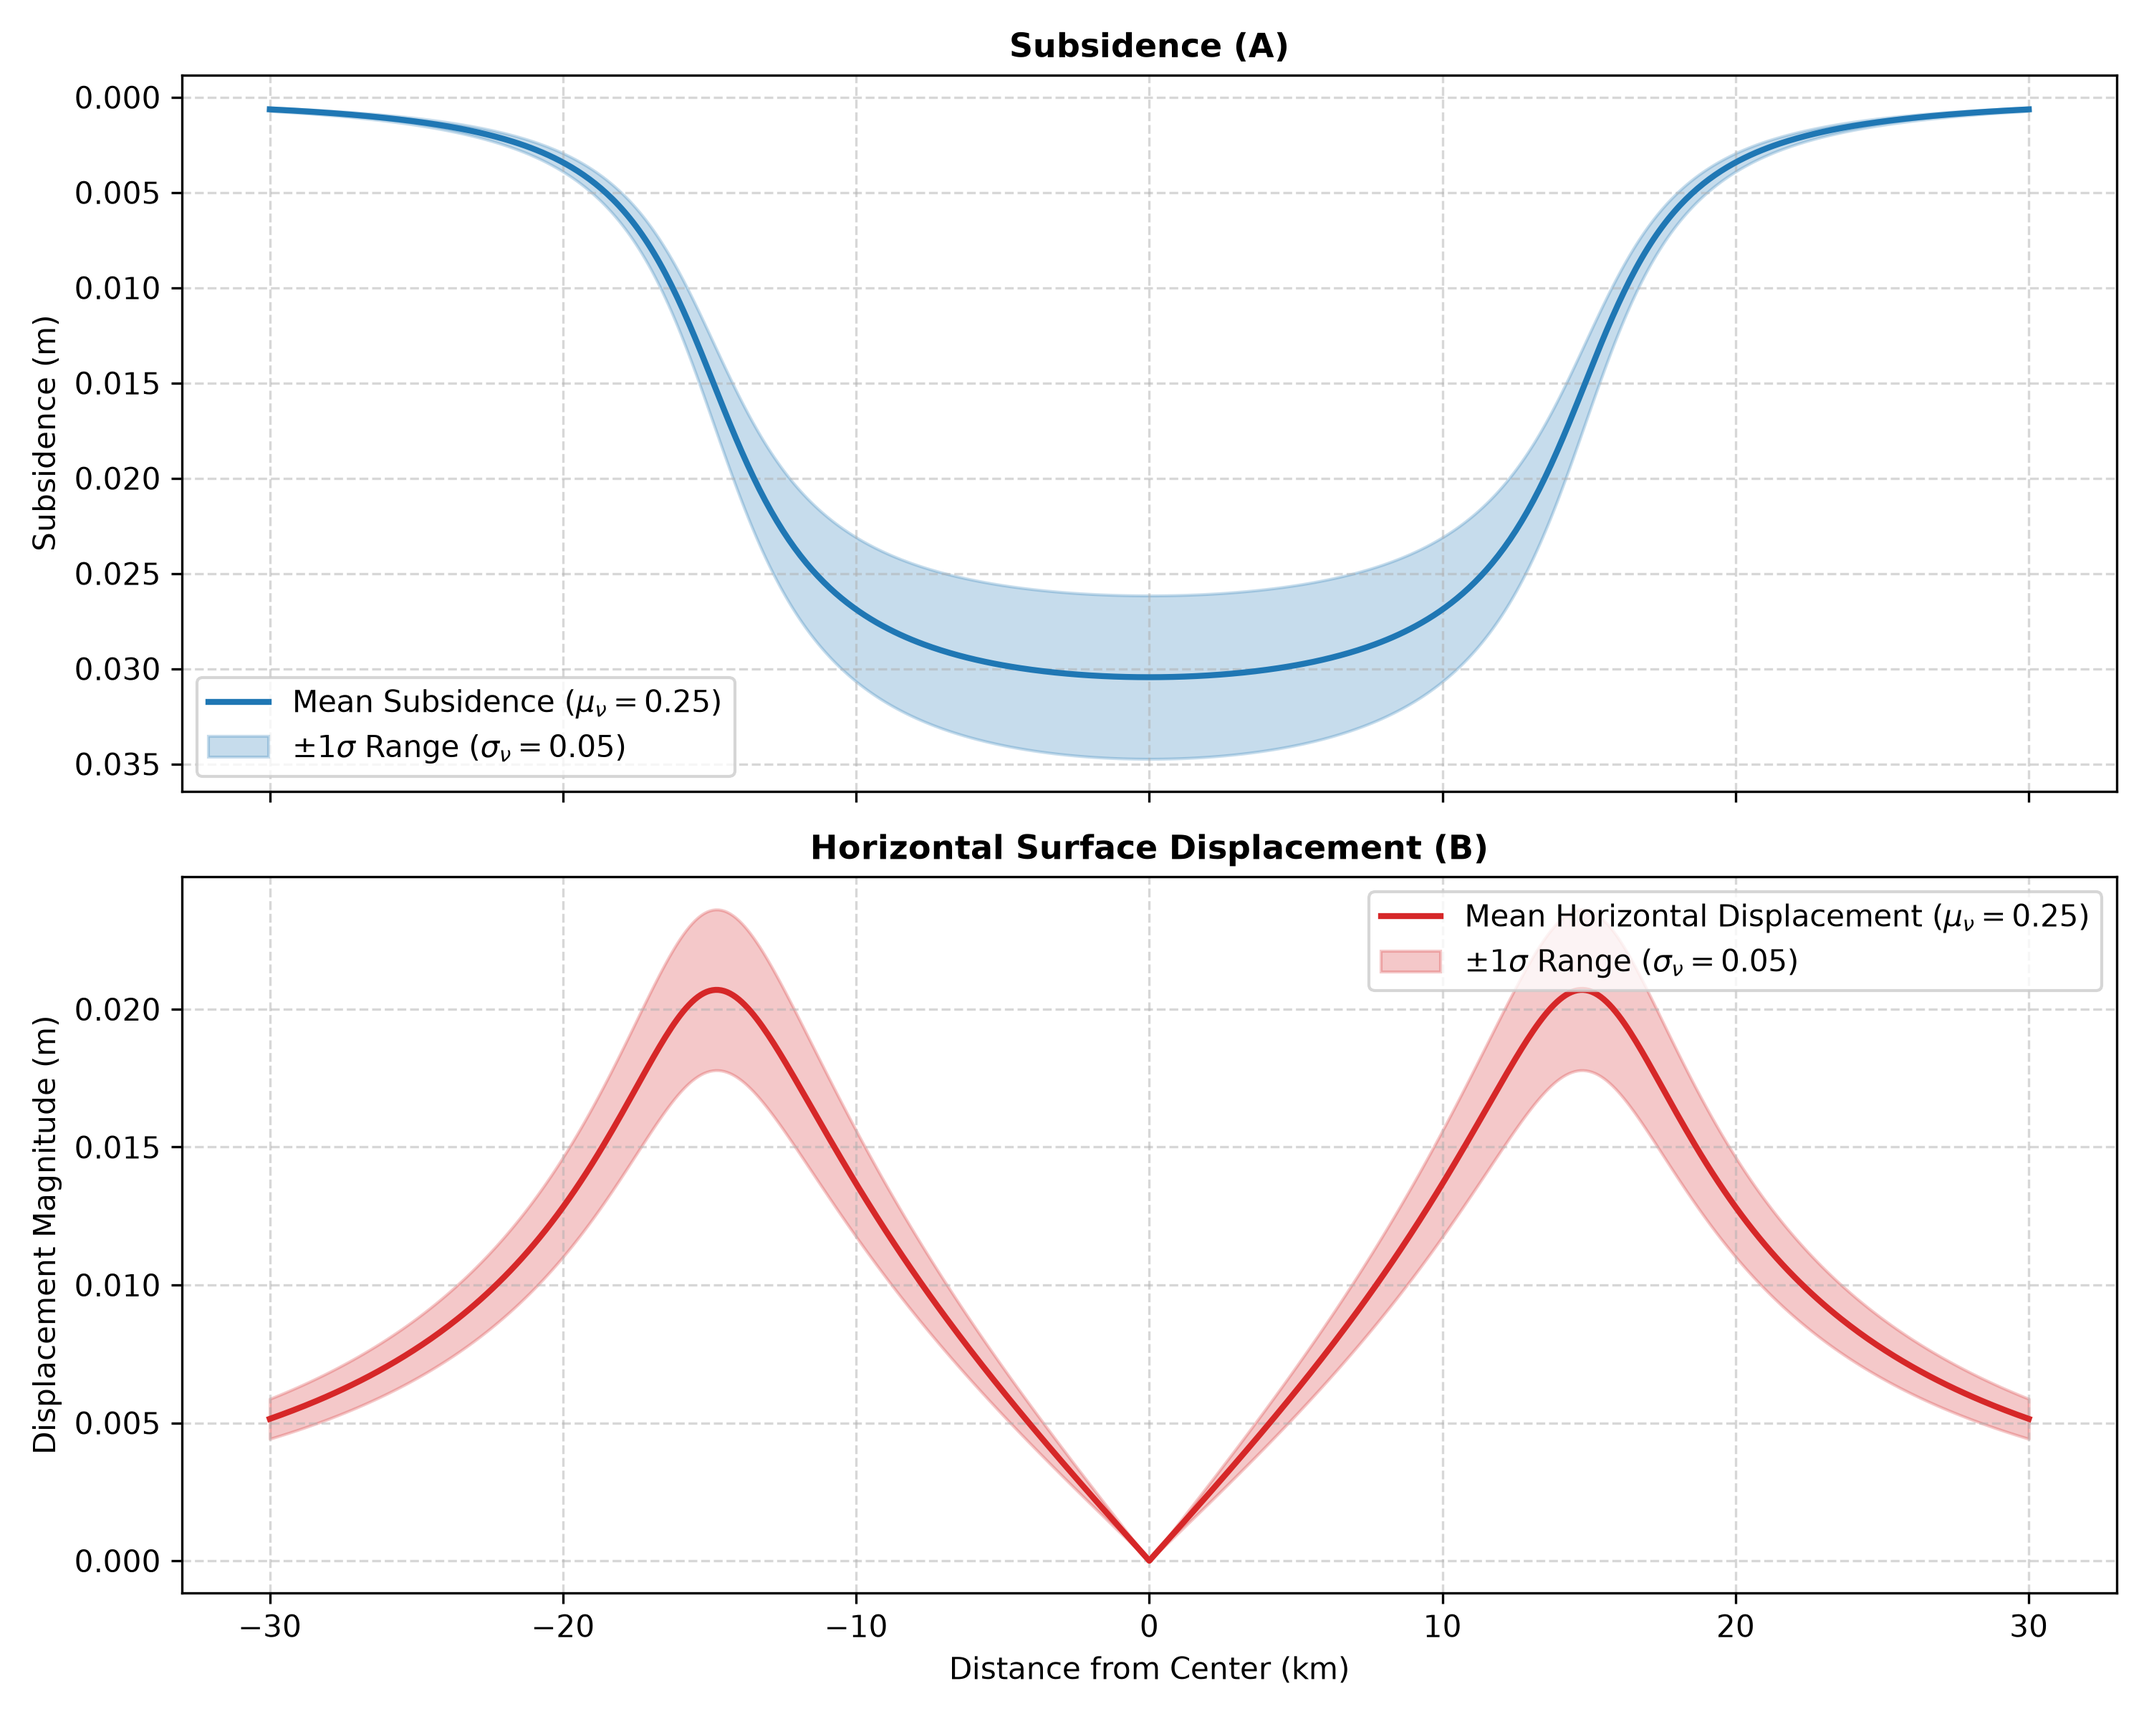
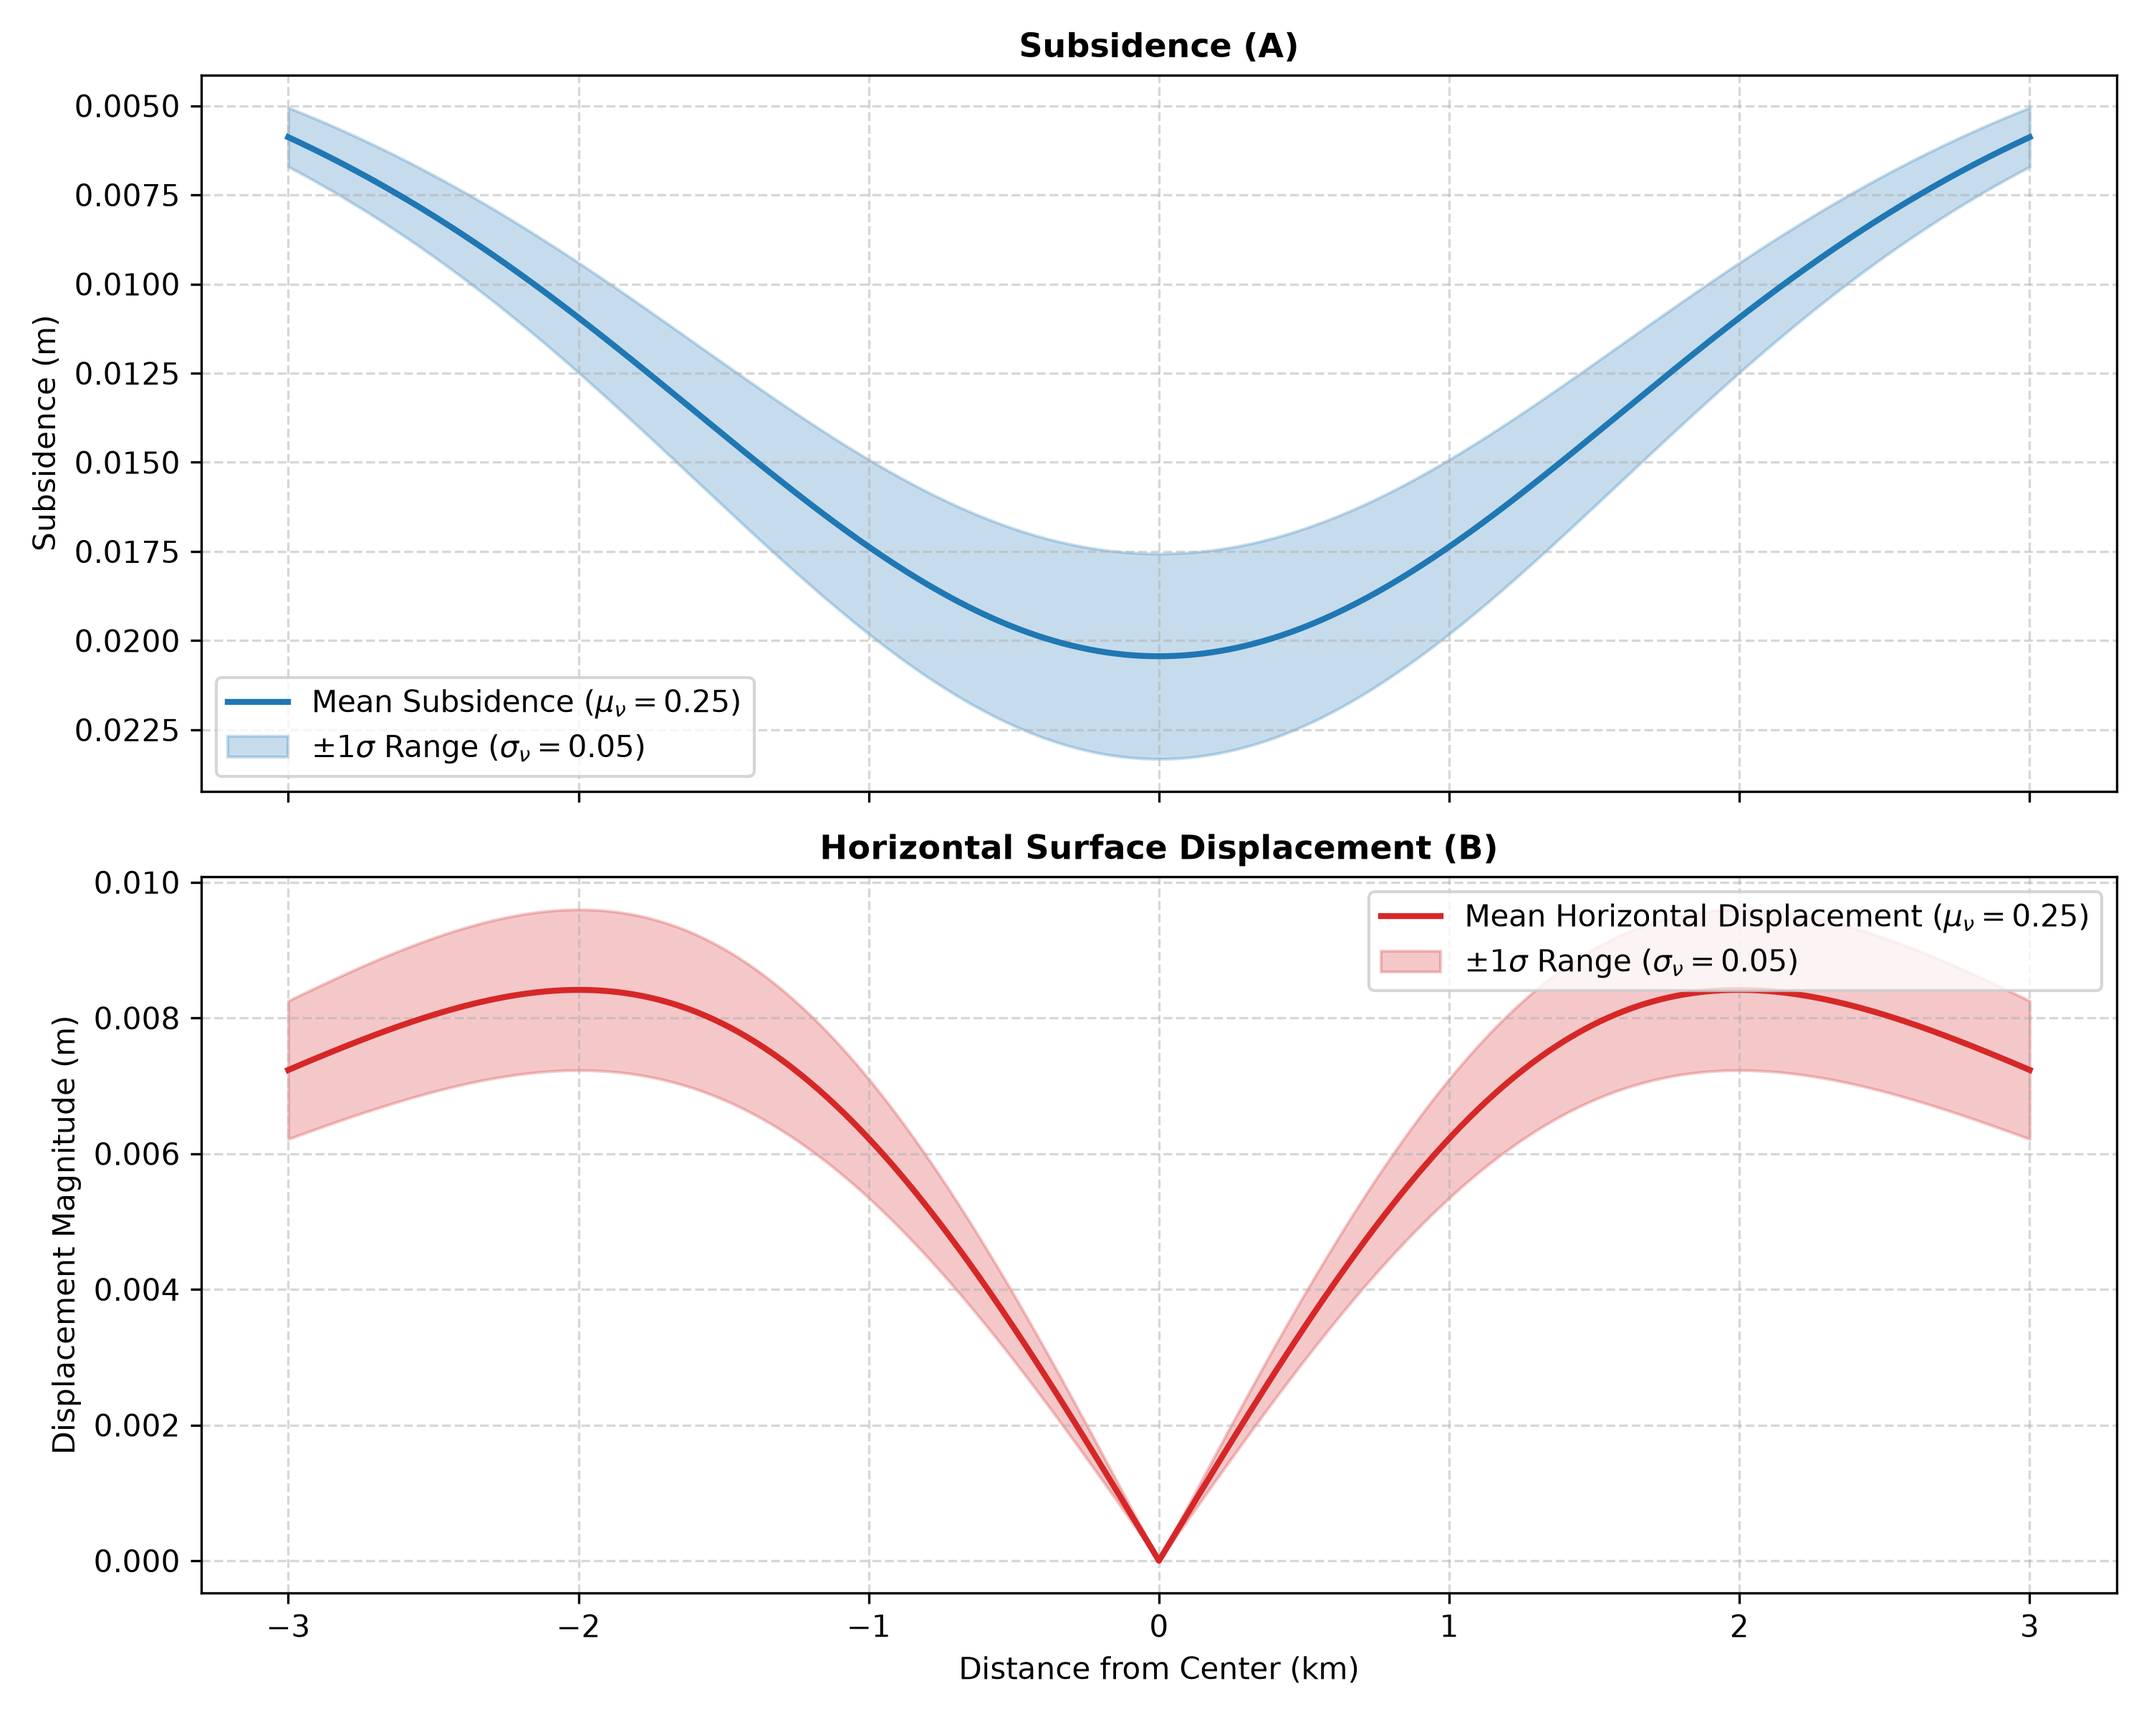
final

diff --git a/Horizontal.py b/Horizontal.py
@@ -51,7 +51,7 @@ if __name__ == "__main__":
     num_samples = 100   # Number of Monte Carlo realizations
 
     # Spatial Domain (-30 km to +30 km)
-    x_min, x_max = -30000.0, 30000.0  # [m]
+    x_min, x_max = -3000.0, 3000.0  # [m]
     num_points = 601
     r_vec = np.linspace(x_min, x_max, num_points)
     # =========================================================================
